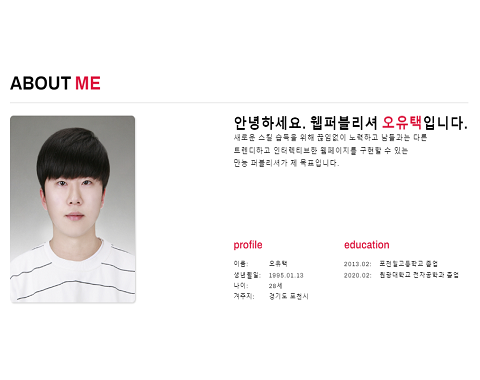
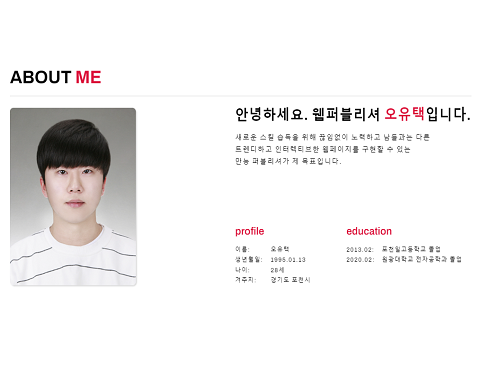
update

diff --git a/css/contact.css b/css/contact.css
@@ -188,6 +188,14 @@ textarea {
   padding: 10px;
   font-size: 16px;
   font-weight: 300;
+  transition: 0.3s;
+}
+
+input:focus,
+textarea:focus {
+  border: 1px solid black;
+  box-shadow: rgba(0, 0, 0, 0.15) 1.95px 1.95px 2.6px;
+  transform: translate(-3px, -3px);
 }
 
 textarea {

diff --git a/css/about.css b/css/about.css
@@ -36,6 +36,7 @@
   font-size: 1.2rem;
   line-height: 2rem;
   font-weight: 400;
+  margin-top: 20px;
 }
 
 .aboutme-text h2 {
